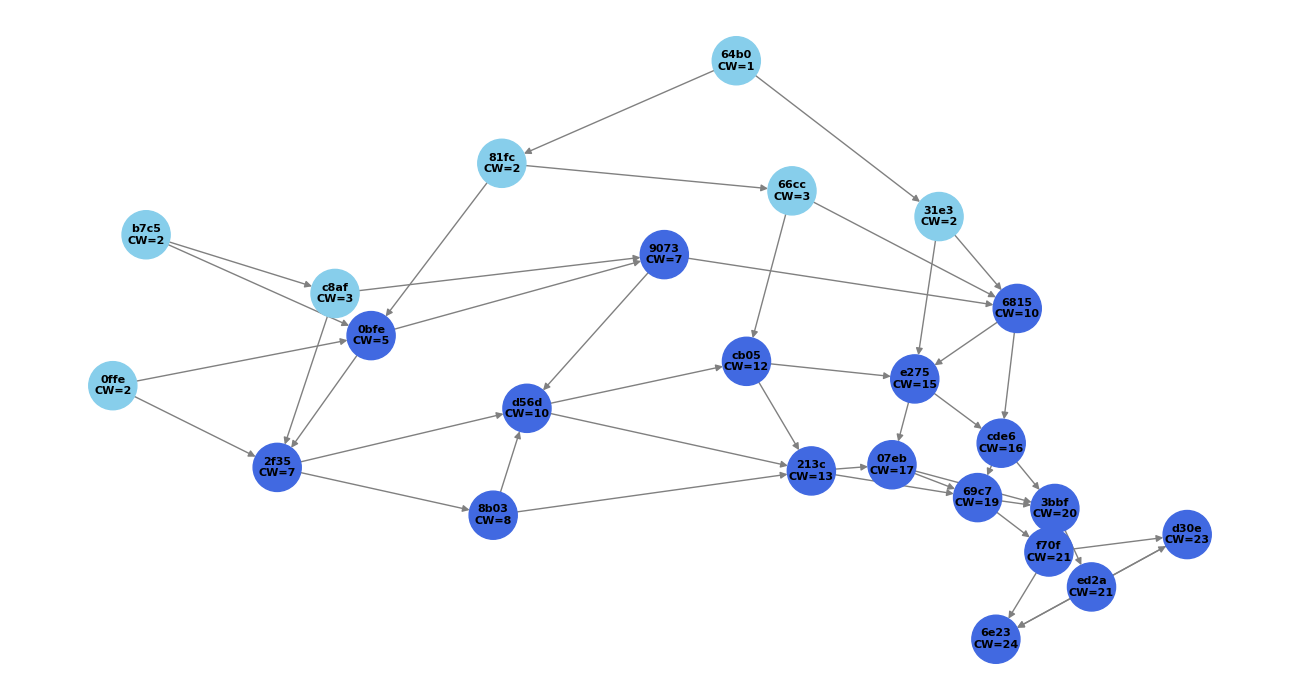
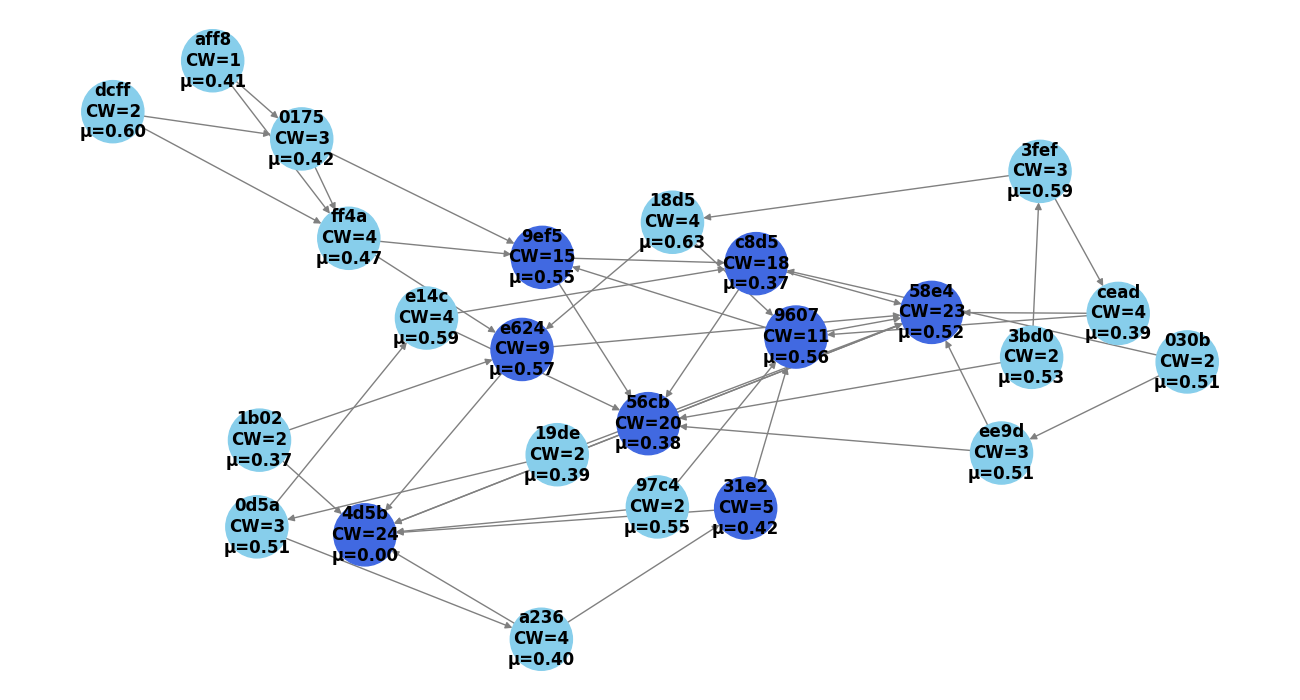
First commit custom tip selection algorithm. Improved graphics.

diff --git a/TipSelectionAlgorithm.py b/TipSelectionAlgorithm.py
@@ -17,8 +17,8 @@ class RandomTipSelector(TipSelectionAlgorithm):
             return []
         
 class IOTALikeTipSelector:
-    def select_tips(self, dag: DAG) -> list:
-        dag.update_cumulative_weights()
+    def select_tips_old(self, dag: DAG) -> list:
+        
         tips = dag.get_tips()
         unconfirmed = [t for t in tips if not dag.is_confirmed(t)]
 
@@ -40,8 +40,8 @@ class IOTALikeTipSelector:
             else:
                 return [all_nodes[0], all_nodes[0]]  # fallback sicuro
             
-            
-    def select_tips_relaxed(self, dag: DAG) -> list:
+
+    def select_tips(self, dag: DAG) -> list:
         dag.update_cumulative_weights()
         
         # Considera tutti i nodi del DAG non ancora confermati (CW <= 3)
@@ -66,6 +66,83 @@ class IOTALikeTipSelector:
 
         
 class MyCustomTipSelector(TipSelectionAlgorithm):
-    def select_tips(self, dag: DAG) -> list:
-            """TODO"""
-            raise NotImplementedError
+
+    def __init__(self, max_depth=3, similarity_threshold=0.5):
+        self.max_depth = max_depth
+        self.similarity_threshold = similarity_threshold
+
+    # Cosine similarity between two matrices
+    def cosine_similarity(self, m1, m2):
+        v1 = m1.flatten()
+        v2 = m2.flatten()
+        return np.dot(v1, v2) / (np.linalg.norm(v1) * np.linalg.norm(v2))
+
+    # Evaluate similarity score recursively up to a maximum depth
+    def evaluate_similarity(self, node_id, dag: DAG, new_matrix):
+        visited = set()
+        queue = [(node_id, 0)]
+        similarities = []
+
+        while queue:
+            current, depth = queue.pop(0)
+            if current in visited or depth > self.max_depth:
+                continue
+            visited.add(current)
+
+            current_matrix = dag.nodes[current].data
+            sim = self.cosine_similarity(new_matrix, current_matrix)
+            similarities.append((1 / (1 + depth)) * sim)
+
+            for parent in dag.graph.successors(current):
+                queue.append((parent, depth + 1))
+        #print(sum(similarities)/len(similarities))
+        return sum(similarities) / len(similarities) if similarities else None
+
+    def select_tips(self, dag: DAG, new_matrix) -> list:
+        # Step 1: trova tutti i tip 
+        dag.update_cumulative_weights()
+        candidate_tips = [
+            n for n in dag.graph.nodes
+            if dag.graph.in_degree(n) == 0 and not dag.is_confirmed(n)
+        ]
+
+        # Step 2: calcola similarità (compresi genitori) per ogni tip
+        scored = []
+        for tip in candidate_tips:
+            score = self.evaluate_similarity(tip, dag, new_matrix)
+            if score is not None and score >= self.similarity_threshold:
+                scored.append((tip, score))
+
+        # Ordina per score decrescente
+        scored.sort(key=lambda x: x[1], reverse=True)
+
+        # Step 3: prendi fino a 2 tip "buoni"
+        selected = [tip for tip, _ in scored[:2]]
+        print(scored)
+        ## Step 4: se meno di 2, aggiungi fallback da nodi confermati con CW > 3
+        if len(selected) < 2:
+            confirmed_nodes = [
+                n for n in dag.graph.nodes
+                if dag.is_confirmed(n) and n not in selected
+            ]
+            # Filtra i nodi confermati per quelli che sono simili
+            confirmed_scores = []
+            for node in confirmed_nodes:
+                score = self.evaluate_similarity(node, dag, new_matrix)
+                if score is not None and score >= self.similarity_threshold:
+                    confirmed_scores.append((node, score))
+
+            confirmed_scores.sort(key=lambda x: x[1], reverse=True)
+
+            # Aggiungi i nodi confermati simili
+            selected += [node for node, _ in confirmed_scores[:2 - len(selected)]]
+
+        # Step 5: se ancora meno di 2, prendi qualsiasi altro nodo confermato come fallback finale
+        if len(selected) < 2:
+            backup_nodes = [n for n in dag.graph.nodes]
+            random.shuffle(backup_nodes)
+            selected += backup_nodes[:2 - len(selected)]
+
+
+        # Ultimo controllo di sicurezza
+        return selected[:2]

diff --git a/Sim_1.py b/Sim_1.py
@@ -14,25 +14,37 @@ def draw_dag(dag, step, pos, folder="frames"):
     # Colori dei nodi in base alla conferma
     node_colors = []
     for node_id in dag.graph.nodes:
-        cw = dag.nodes[node_id].cw
         if dag.is_confirmed(node_id):
-            node_colors.append("royalblue")  # blu scuro per confermati
+            node_colors.append("royalblue")  # Blu scuro per confermati
         else:
-            node_colors.append("skyblue")    # azzurro per non confermati
+            node_colors.append("skyblue")    # Azzurro per non confermati
+
+    # Disegna nodi e archi
     nx.draw(
         dag.graph,
         pos,
         with_labels=False,
-        node_size=1200,  # dimensione più grande per maggiore visibilità
+        node_size=2000,
         node_color=node_colors,
         edge_color="gray",
         arrows=True
     )
-    # Etichette leggibili (ID abbreviato + CW)
-    labels = {
-        n: f"{n[:4]}\nCW={dag.nodes[n].cw}" for n in dag.graph.nodes
-    }
-    nx.draw_networkx_labels(dag.graph, pos, labels, font_size=8, font_weight="bold")
+    # Etichette: ID abbreviato + CW + media matrice, in grassetto
+    labels = {}
+    for node_id in dag.graph.nodes:
+        node = dag.nodes[node_id]
+        matrix_mean = np.mean(node.data)
+        labels[node_id] = f"{node_id[:4]}\nCW={node.cw}\nμ={matrix_mean:.2f}"
+
+    
+    nx.draw_networkx_labels(
+        dag.graph,
+        pos,
+        labels=labels,
+        font_size=12,
+        font_weight="bold"
+    )
+
     plt.title(f"DAG Evolution - Step {step}")
     plt.axis("off")
     os.makedirs(folder, exist_ok=True)
@@ -56,7 +68,7 @@ matplotlib.use('Qt5Agg')
 # Simulazione di un DAG con 5 peer e 25 nodi
 # Inizializza il DAG e il selettore di tip
 dag = DAG.DAG()
-selector = TipSelectionAlgorithm.IOTALikeTipSelector()
+selector = TipSelectionAlgorithm.MyCustomTipSelector()
 
 # Crea 5 peer
 peers = [Peer.Peer(dag, selector, name=f"Peer{i}") for i in range(5)]
@@ -84,3 +96,5 @@ print(f"\nMatrice del nodo {sample_id[:9]}:\n{dag.get_node_data(sample_id)}")
 
 print(f"Totale nodi: {len(dag.nodes)} - Totale tips: {len(dag.tips)}")
 make_gif()
+
+#CREATING MILESTONE AT THE ENF OF EVERY FL ROUND??

diff --git a/Peer.py b/Peer.py
@@ -14,7 +14,7 @@ class Peer:
     def add_node(self):
         data_matrix = self.generate_data_matrix()
         new_node = DAGNode.DAGNode(data_matrix)
-        selected_parents = self.selector.select_tips_relaxed(self.dag)
+        selected_parents = self.selector.select_tips(self.dag, data_matrix)
 
         # Logging info
         print(f"\n[{self.name}] Adding node {new_node.id[:6]}")
